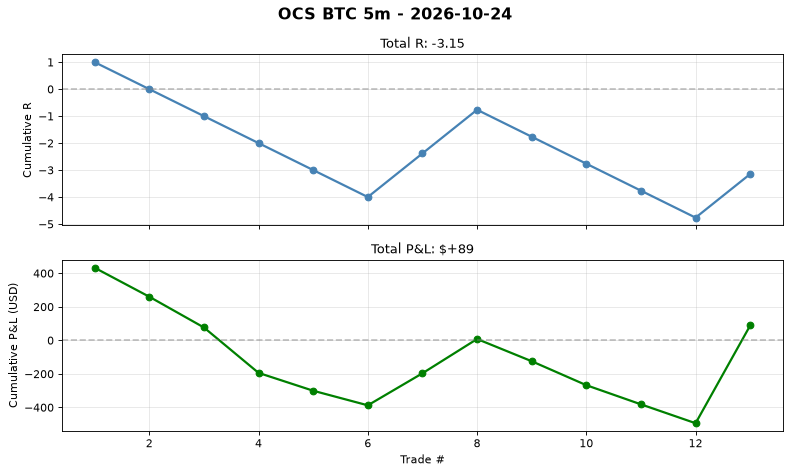
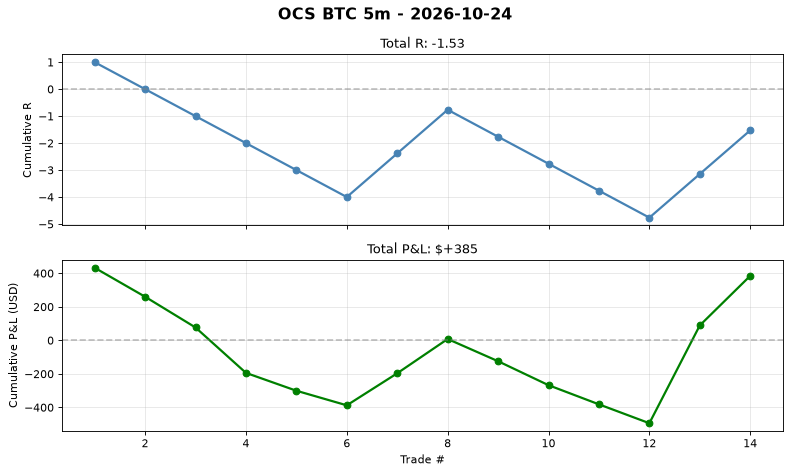
auto(ocs-btc): signal log 2026-10-24T00:57 trades=14

diff --git a/automation/reports/ocs_btc_5m/daily/2026-10-24.md b/automation/reports/ocs_btc_5m/daily/2026-10-24.md
@@ -2,4 +2,4 @@
 
 **No trades today.**
 
-Cumulative stats: 13 trades | WR 30.8% | avg R -0.242
+Cumulative stats: 14 trades | WR 35.7% | avg R -0.109
